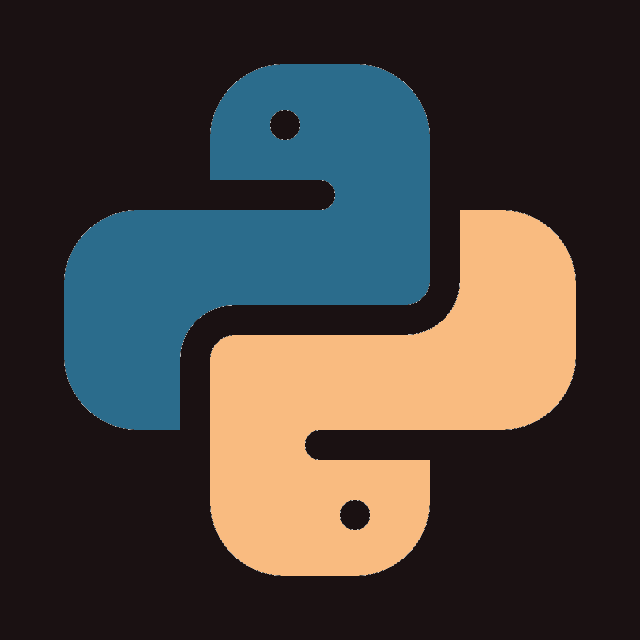
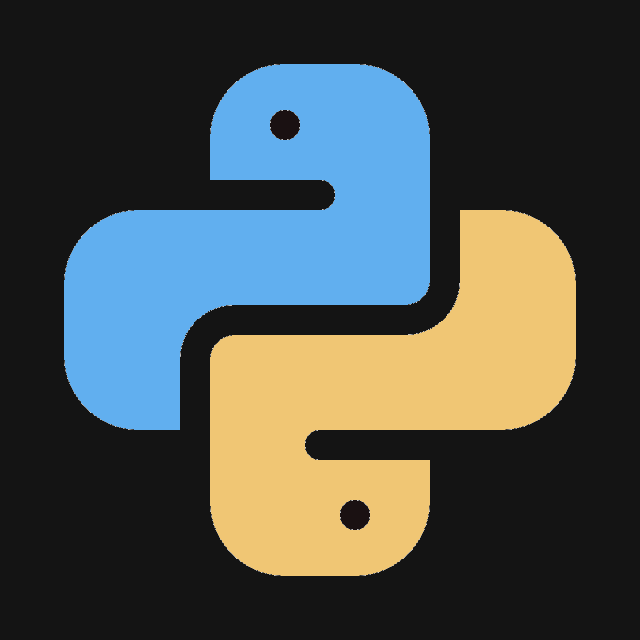
Changed the bar on Qtile

Changed region(s): [[0.0938, 0.0938, 0.6875, 0.6875]]

diff --git a/.config/qtile/config.py b/.config/qtile/config.py
@@ -13,7 +13,7 @@ myTerm = "alacritty"
 myBrowser = "brave-browser"
 myFileManager = "nemo"
 myTextEditor = "subl"
-myOfficeSuite = "onlyoffice"
+myOfficeSuite = "desktopeditors"
 myLaTeXEditor = "gnome-latex"
 myMusicPlayer = "rhythmbox"
 myConfig = "~/.config/qtile/config.py"
@@ -80,8 +80,8 @@ for i, (name, kwargs) in enumerate(group_names, 1):
 
 layout_theme = {"border_width": 2,
 				"margin": 4,
-				"border_focus": "205E74", #colours[4]
-				"border_normal": "606970" #colours[7]
+				"border_focus": "61AFEF", #colours[6]
+				"border_normal": "848484" #colours[2]
 				}
 
 layouts = [
@@ -101,23 +101,24 @@ layouts = [
 	#layout.Stack(num_stacks=2),
 ]
 
-colours = [["#1A1211", "#1A1211"], # Background
-		   ["#A8BAB3", "#A8BAB3"], # Foreground
-		   ["#75827D", "#75827D"], # Grey Colour
-		   ["#324F6B", "#324F6B"],
-		   ["#205E74", "#205E74"],
-		   ["#494956", "#494956"],
-		   ["#49546A", "#49546A"],
-		   ["#606970", "#606970"],
-		   ["#897B75", "#897B75"]]
+colours = [["#141414", "#141414"], # Background
+		   ["#FFFFFF", "#FFFFFF"], # Foreground
+		   ["#848484", "#848484"], # Grey Colour
+		   ["#E35374", "#E35374"],
+		   ["#98C379", "#98C379"],
+		   ["#F0C674", "#F0C674"],
+		   ["#61AFEF", "#61AFEF"],
+		   ["#C678DD", "#C678DD"],
+		   ["#56B6BC", "#56B6BC"]]
 
 prompt = "{0}@{1}: ".format(os.environ["USER"], socket.gethostname())
 
 widget_defaults = dict(background= colours[0],
-	foreground='EDEFF2',
+	foreground=colours[1],
 	font="SF Pro Text Regular",
-	fontsize = 12,
-	padding = 2)
+	fontsize=12,
+	padding=1
+	)
 extension_defaults = widget_defaults.copy()
 
 screens = [
@@ -126,41 +127,39 @@ screens = [
 			[
 			widget.Sep(
 				foreground=colours[0],
-				linewidth=2
+				linewidth=4
 				),
 			widget.Image(
 				scale=True,
 				mouse_callbacks = {'Button1': lambda qtile: qtile.cmd_spawn("rofi -show drun")},
 				filename="~/.config/qtile/py.png"
 				),
-			widget.TextBox(
-				font="JetBrainsMono Nerd Font Regular",
-				fontsize=16,
-				width=22,
+			widget.Sep(
 				foreground=colours[2],
-				background=colours[0],
-				text='\uE0BA'
+				linewidth=1,
+				padding=10
 				),
 			widget.GroupBox(
-				background=colours[2],
 				padding=0,
-				active=colours[0],
-				inactive='C8CACC',
-				highlight_color=colours[5],
-				highlight_method='line',
-				this_current_screen_border=colours[5]
+				active=colours[4],
+				inactive=colours[6],
+				margin=2,
+				highlight_method='text',
+				this_current_screen_border=colours[7],
+				urgent_alert_method='text',
+				urgent_border=colours[3],
+				urgent_text=colours[3],
+				disable_drag=True,
+				invert_mouse_wheel=True
 				),
-			widget.TextBox(
-				font="JetBrainsMono Nerd Font Regular",
-				fontsize=16,
-				width=22,
-				foreground=colours[0],
-				background=colours[2],
-				text='\uE0BA'
+			widget.Sep(
+				foreground=colours[2],
+				linewidth=1,
+				padding=10
 				),
 			widget.CurrentLayout(
 				font="SF Pro Text Semibold",
-				foreground='477AB3'
+				foreground=colours[7]
 				),
 			widget.Systray(
 				),
@@ -169,99 +168,81 @@ screens = [
 				noplay_color='C8CACC'
 				),
 			widget.Sep(
-				foreground='C8CACC',
-				padding=8
+				foreground=colours[2],
+				linewidth=1,
+				padding=10
 				),
 			widget.WindowName(
 				),
 			widget.TextBox(
 				font="JetBrainsMono Nerd Font Regular",
-				fontsize=16,
-				width=22,
 				foreground=colours[3],
-				text='\uE0BA'
-				),
-			widget.TextBox(
-				font="JetBrainsMono Nerd Font Regular",
-				background=colours[3],
 				fontsize=14,
 				padding=0,
 				text='﬙ '
 				),
 			widget.CPU(
-				background=colours[3],
+				foreground=colours[3],
 				mouse_callbacks = {'Button1': lambda qtile: qtile.cmd_spawn(myTerm + ' -e ytop')},
 				format='{load_percent}%',
 				update_interval=1.0
 				),
-			widget.TextBox(
-				font="JetBrainsMono Nerd Font Regular",
-				fontsize=16,
-				width=22,
-				foreground=colours[4],
-				background=colours[3],
-				text='\uE0BA'
+			widget.Sep(
+				foreground=colours[2],
+				linewidth=1,
+				padding=10
 				),
 			widget.TextBox(
 				font="JetBrainsMono Nerd Font Regular",
-				background=colours[4],
+				foreground=colours[4],
 				fontsize=14,
 				padding=0,
 				text=' '
 				),
 			widget.Memory(
-				background=colours[4],
-				mouse_callbacks = {'Button1': lambda qtile: qtile.cmd_spawn(myTerm + ' -e htop')},
+				foreground=colours[4],
+				mouse_callbacks = {'Button1': lambda qtile: qtile.cmd_spawn(myTerm + ' -e ytop')},
 				format='{MemUsed} MB'
 				),
-			widget.TextBox(
-				font="JetBrainsMono Nerd Font Regular",
-				fontsize=16,
-				width=22,
-				foreground=colours[5],
-				background=colours[4],
-				text='\uE0BA'
+			widget.Sep(
+				foreground=colours[2],
+				linewidth=1,
+				padding=10
 				),
 			widget.TextBox(
 				font="JetBrainsMono Nerd Font Regular",
-				background=colours[5],
+				foreground=colours[5],
 				fontsize=14,
 				padding=0,
 				text=' '
 				),
 			widget.ThermalSensor(
-				background=colours[5],
+				foreground=colours[5],
 				threshold=80,
-				foreground_alert='DE935F'
+				foreground_alert='DE935F',
+				tag_sensor="Tctl"
+				),
+			widget.Sep(
+				foreground=colours[2],
+				linewidth=1,
+				padding=10
 				),
 			widget.TextBox(
 				font="JetBrainsMono Nerd Font Regular",
-				fontsize=16,
-				width=22,
 				foreground=colours[6],
-				background=colours[5],
-				text='\uE0BA'
-				),
-			widget.TextBox(
-				background=colours[6],
-				text='Vol.'
+				fontsize=14,
+				padding=0,
+				text='墳 '
 				),
 			widget.Volume(
-				background=colours[6],
+				foreground=colours[6],
 				step=5
 				),
-			widget.TextBox(
-				font="JetBrainsMono Nerd Font Regular",
-				fontsize=16,
-				width=22,
-				foreground=colours[7],
-				background=colours[6],
-				text='\uE0BA'
+			widget.Sep(
+				foreground=colours[2],
+				linewidth=1,
+				padding=10
 				),
-			#widget.Image(
-			#	scale=True,
-			#	filename="~/.config/qtile/2.png"
-			#	),
 			#widget.Net(
 			#	background=colours[7],
 			#	interface='enp1s0',
@@ -272,23 +253,25 @@ screens = [
 			#	url='https://www.alphavantage.co/query?'
 			#	),
 			widget.TextBox(
-				background=colours[7],
-				text='Power'),
-			widget.Battery(
-				background=colours[7],
-				format='{char} {percent:2.0%}',
-				low_foreground='DE935F'
-				),
-			widget.TextBox(
 				font="JetBrainsMono Nerd Font Regular",
-				fontsize=16,
-				width=22,
-				foreground=colours[8],
-				background=colours[7],
-				text='\uE0BA'
+				foreground=colours[7],
+				fontsize=14,
+				padding=0,
+				text=' '
+				),
+			widget.Battery(
+				foreground=colours[7],
+				format='{char} {percent:2.0%}',
+				low_foreground='DE935F',
+				notify_below=20,
+				),
+			widget.Sep(
+				foreground=colours[2],
+				linewidth=1,
+				padding=10
 				),
 			widget.Clock(
-				background=colours[8],
+				foreground=colours[8],
 				format='%a %b %d  %I:%M %P    '
 				)
 			],
